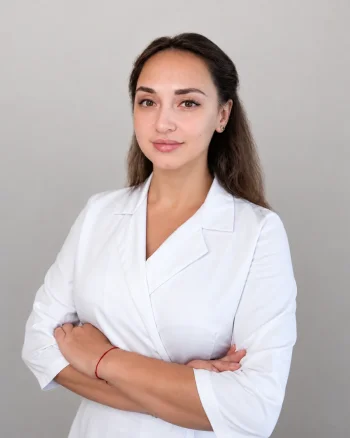
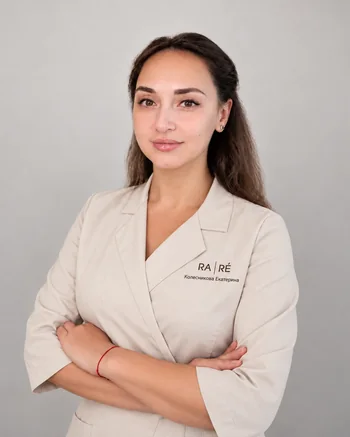
Replace Ekaterina's and Natalya's portraits with the client's new photos

diff --git a/index.html b/index.html
@@ -458,7 +458,7 @@
           <p class="mh-spec-card__role">Косметолог-эстетист, нутрициолог</p>
         </a>
         <a href="specialists/ekaterina-evgenevna.html" class="mh-spec-card">
-          <img src="assets/photos/spec-ekaterina.webp?v=2" alt="Колесникова Екатерина Евгеньевна" loading="lazy" srcset="assets/photos/spec-ekaterina-350.webp?v=2 350w, assets/photos/spec-ekaterina-700.webp?v=2 700w, assets/photos/spec-ekaterina-950.webp?v=2 950w, assets/photos/spec-ekaterina.webp?v=2 1122w" sizes="(max-width: 767px) 350px, (max-width: 1024px) 460px, 468px"/>
+          <img src="assets/photos/spec-ekaterina.webp?v=10" alt="Колесникова Екатерина Евгеньевна" loading="lazy" srcset="assets/photos/spec-ekaterina-350.webp?v=10 350w, assets/photos/spec-ekaterina-700.webp?v=10 700w, assets/photos/spec-ekaterina-950.webp?v=10 950w, assets/photos/spec-ekaterina.webp?v=10 1122w" sizes="(max-width: 767px) 350px, (max-width: 1024px) 460px, 468px"/>
           <p class="mh-spec-card__name">Колесникова Екатерина Евгеньевна</p>
           <p class="mh-spec-card__role">Косметолог-эстетист</p>
         </a>
@@ -468,7 +468,7 @@
           <p class="mh-spec-card__role">Врач-дерматовенеролог, косметолог, трихолог</p>
         </a>
         <a href="specialists/natalya-vladimirovna.html" class="mh-spec-card">
-          <img src="assets/photos/spec-natalya.webp?v=2" alt="Луковская Наталья Владимировна" loading="lazy" srcset="assets/photos/spec-natalya-350.webp?v=2 350w, assets/photos/spec-natalya-500.webp?v=2 500w, assets/photos/spec-natalya-700.webp?v=2 700w, assets/photos/spec-natalya.webp?v=2 1024w" sizes="(max-width: 767px) 350px, (max-width: 1024px) 460px, 468px"/>
+          <img src="assets/photos/spec-natalya.webp?v=10" alt="Луковская Наталья Владимировна" loading="lazy" srcset="assets/photos/spec-natalya-350.webp?v=10 350w, assets/photos/spec-natalya-500.webp?v=10 500w, assets/photos/spec-natalya-700.webp?v=10 700w, assets/photos/spec-natalya.webp?v=10 1122w" sizes="(max-width: 767px) 350px, (max-width: 1024px) 460px, 468px"/>
           <p class="mh-spec-card__name">Луковская Наталья Владимировна</p>
           <p class="mh-spec-card__role">Косметолог-эстетист</p>
         </a>
@@ -1109,7 +1109,7 @@
       <span class="spec-card__view" aria-label="Профиль"><svg viewBox="0 0 24 24" fill="none"><path d="M7 17L17 7M17 7H9M17 7V15" stroke="currentColor" stroke-width="1.8" stroke-linecap="round" stroke-linejoin="round"/></svg></span>
     </a>
     <a href="specialists/ekaterina-evgenevna.html" class="spec-card">
-      <div class="spec-card__photo"><img src="assets/photos/spec-ekaterina.webp?v=2" alt="Колесникова Екатерина Евгеньевна" loading="lazy" srcset="assets/photos/spec-ekaterina-350.webp?v=2 350w, assets/photos/spec-ekaterina-700.webp?v=2 700w, assets/photos/spec-ekaterina-950.webp?v=2 950w, assets/photos/spec-ekaterina.webp?v=2 1122w" sizes="(max-width: 767px) 350px, (max-width: 1024px) 460px, 468px"/></div>
+      <div class="spec-card__photo"><img src="assets/photos/spec-ekaterina.webp?v=10" alt="Колесникова Екатерина Евгеньевна" loading="lazy" srcset="assets/photos/spec-ekaterina-350.webp?v=10 350w, assets/photos/spec-ekaterina-700.webp?v=10 700w, assets/photos/spec-ekaterina-950.webp?v=10 950w, assets/photos/spec-ekaterina.webp?v=10 1122w" sizes="(max-width: 767px) 350px, (max-width: 1024px) 460px, 468px"/></div>
       <p class="spec-card__name">Колесникова Екатерина Евгеньевна</p>
       <p class="spec-card__role">Косметолог-эстетист</p>
       <span class="spec-card__view" aria-label="Профиль"><svg viewBox="0 0 24 24" fill="none"><path d="M7 17L17 7M17 7H9M17 7V15" stroke="currentColor" stroke-width="1.8" stroke-linecap="round" stroke-linejoin="round"/></svg></span>
@@ -1121,7 +1121,7 @@
       <span class="spec-card__view" aria-label="Профиль"><svg viewBox="0 0 24 24" fill="none"><path d="M7 17L17 7M17 7H9M17 7V15" stroke="currentColor" stroke-width="1.8" stroke-linecap="round" stroke-linejoin="round"/></svg></span>
     </a>
     <a href="specialists/natalya-vladimirovna.html" class="spec-card">
-      <div class="spec-card__photo"><img src="assets/photos/spec-natalya.webp?v=2" alt="Луковская Наталья Владимировна" loading="lazy" srcset="assets/photos/spec-natalya-350.webp?v=2 350w, assets/photos/spec-natalya-500.webp?v=2 500w, assets/photos/spec-natalya-700.webp?v=2 700w, assets/photos/spec-natalya.webp?v=2 1024w" sizes="(max-width: 767px) 350px, (max-width: 1024px) 460px, 468px"/></div>
+      <div class="spec-card__photo"><img src="assets/photos/spec-natalya.webp?v=10" alt="Луковская Наталья Владимировна" loading="lazy" srcset="assets/photos/spec-natalya-350.webp?v=10 350w, assets/photos/spec-natalya-500.webp?v=10 500w, assets/photos/spec-natalya-700.webp?v=10 700w, assets/photos/spec-natalya.webp?v=10 1122w" sizes="(max-width: 767px) 350px, (max-width: 1024px) 460px, 468px"/></div>
       <p class="spec-card__name">Луковская Наталья Владимировна</p>
       <p class="spec-card__role">Косметолог-эстетист</p>
       <span class="spec-card__view" aria-label="Профиль"><svg viewBox="0 0 24 24" fill="none"><path d="M7 17L17 7M17 7H9M17 7V15" stroke="currentColor" stroke-width="1.8" stroke-linecap="round" stroke-linejoin="round"/></svg></span>

diff --git a/specialists/index.html b/specialists/index.html
@@ -300,7 +300,7 @@
       <p class="spec-card__role">Косметолог-эстетист, нутрициолог</p>
     </a>
     <a href="ekaterina-evgenevna.html" class="spec-card" data-rr="up" style="--rr-del:0.15s">
-      <img src="../assets/photos/spec-ekaterina.webp?v=2" alt="Колесникова Екатерина Евгеньевна" loading="lazy" srcset="../assets/photos/spec-ekaterina-350.webp?v=2 350w, ../assets/photos/spec-ekaterina-700.webp?v=2 700w, ../assets/photos/spec-ekaterina-950.webp?v=2 950w, ../assets/photos/spec-ekaterina.webp?v=2 1122w" sizes="(max-width: 767px) 350px, (max-width: 1024px) 460px, 468px"/>
+      <img src="../assets/photos/spec-ekaterina.webp?v=10" alt="Колесникова Екатерина Евгеньевна" loading="lazy" srcset="../assets/photos/spec-ekaterina-350.webp?v=10 350w, ../assets/photos/spec-ekaterina-700.webp?v=10 700w, ../assets/photos/spec-ekaterina-950.webp?v=10 950w, ../assets/photos/spec-ekaterina.webp?v=10 1122w" sizes="(max-width: 767px) 350px, (max-width: 1024px) 460px, 468px"/>
       <p class="spec-card__name">Колесникова Екатерина Евгеньевна</p>
       <p class="spec-card__role">Косметолог-эстетист</p>
     </a>
@@ -310,7 +310,7 @@
       <p class="spec-card__role">Врач-дерматовенеролог, косметолог, трихолог</p>
     </a>
     <a href="natalya-vladimirovna.html" class="spec-card" data-rr="up" style="--rr-del:0.3s">
-      <img src="../assets/photos/spec-natalya.webp?v=2" alt="Луковская Наталья Владимировна" loading="lazy" srcset="../assets/photos/spec-natalya-350.webp?v=2 350w, ../assets/photos/spec-natalya-500.webp?v=2 500w, ../assets/photos/spec-natalya-700.webp?v=2 700w, ../assets/photos/spec-natalya.webp?v=2 1024w" sizes="(max-width: 767px) 350px, (max-width: 1024px) 460px, 468px"/>
+      <img src="../assets/photos/spec-natalya.webp?v=10" alt="Луковская Наталья Владимировна" loading="lazy" srcset="../assets/photos/spec-natalya-350.webp?v=10 350w, ../assets/photos/spec-natalya-500.webp?v=10 500w, ../assets/photos/spec-natalya-700.webp?v=10 700w, ../assets/photos/spec-natalya.webp?v=10 1122w" sizes="(max-width: 767px) 350px, (max-width: 1024px) 460px, 468px"/>
       <p class="spec-card__name">Луковская Наталья Владимировна</p>
       <p class="spec-card__role">Косметолог-эстетист</p>
     </a>
@@ -365,7 +365,7 @@
     <p class="mh-spec-card__role">Косметолог-эстетист, нутрициолог</p>
   </a>
   <a href="ekaterina-evgenevna.html" class="mh-spec-card" data-rr="up" style="--rr-del:0.24s">
-    <img src="../assets/photos/spec-ekaterina.webp?v=2" alt="Колесникова Екатерина Евгеньевна" loading="lazy" srcset="../assets/photos/spec-ekaterina-350.webp?v=2 350w, ../assets/photos/spec-ekaterina-700.webp?v=2 700w, ../assets/photos/spec-ekaterina-950.webp?v=2 950w, ../assets/photos/spec-ekaterina.webp?v=2 1122w" sizes="(max-width: 767px) 350px, (max-width: 1024px) 460px, 468px"/>
+    <img src="../assets/photos/spec-ekaterina.webp?v=10" alt="Колесникова Екатерина Евгеньевна" loading="lazy" srcset="../assets/photos/spec-ekaterina-350.webp?v=10 350w, ../assets/photos/spec-ekaterina-700.webp?v=10 700w, ../assets/photos/spec-ekaterina-950.webp?v=10 950w, ../assets/photos/spec-ekaterina.webp?v=10 1122w" sizes="(max-width: 767px) 350px, (max-width: 1024px) 460px, 468px"/>
     <p class="mh-spec-card__name">Колесникова Екатерина Евгеньевна</p>
     <p class="mh-spec-card__role">Косметолог-эстетист</p>
   </a>
@@ -375,7 +375,7 @@
     <p class="mh-spec-card__role">Врач-дерматовенеролог, косметолог, трихолог</p>
   </a>
   <a href="natalya-vladimirovna.html" class="mh-spec-card" data-rr="up" style="--rr-del:0.3s">
-    <img src="../assets/photos/spec-natalya.webp?v=2" alt="Луковская Наталья Владимировна" loading="lazy" srcset="../assets/photos/spec-natalya-350.webp?v=2 350w, ../assets/photos/spec-natalya-500.webp?v=2 500w, ../assets/photos/spec-natalya-700.webp?v=2 700w, ../assets/photos/spec-natalya.webp?v=2 1024w" sizes="(max-width: 767px) 350px, (max-width: 1024px) 460px, 468px"/>
+    <img src="../assets/photos/spec-natalya.webp?v=10" alt="Луковская Наталья Владимировна" loading="lazy" srcset="../assets/photos/spec-natalya-350.webp?v=10 350w, ../assets/photos/spec-natalya-500.webp?v=10 500w, ../assets/photos/spec-natalya-700.webp?v=10 700w, ../assets/photos/spec-natalya.webp?v=10 1122w" sizes="(max-width: 767px) 350px, (max-width: 1024px) 460px, 468px"/>
     <p class="mh-spec-card__name">Луковская Наталья Владимировна</p>
     <p class="mh-spec-card__role">Косметолог-эстетист</p>
   </a>

diff --git a/specialists/ksenia-aleksandrovna.html b/specialists/ksenia-aleksandrovna.html
@@ -430,7 +430,7 @@
     <div class="spec-sec-head"><h2 data-rr="up">Другие специалисты</h2></div>
     <div class="spec-others__grid" id="spec-others-cards">
       <a href="ekaterina-evgenevna.html" class="spec-other-card" data-rr="up">
-        <img src="../assets/photos/spec-ekaterina.webp?v=2" alt="Колесникова Екатерина Евгеньевна" loading="lazy" srcset="../assets/photos/spec-ekaterina-350.webp?v=2 350w, ../assets/photos/spec-ekaterina-700.webp?v=2 700w, ../assets/photos/spec-ekaterina-950.webp?v=2 950w, ../assets/photos/spec-ekaterina.webp?v=2 1122w" sizes="(max-width: 767px) 350px, (max-width: 1024px) 460px, 468px"/>
+        <img src="../assets/photos/spec-ekaterina.webp?v=10" alt="Колесникова Екатерина Евгеньевна" loading="lazy" srcset="../assets/photos/spec-ekaterina-350.webp?v=10 350w, ../assets/photos/spec-ekaterina-700.webp?v=10 700w, ../assets/photos/spec-ekaterina-950.webp?v=10 950w, ../assets/photos/spec-ekaterina.webp?v=10 1122w" sizes="(max-width: 767px) 350px, (max-width: 1024px) 460px, 468px"/>
         <p class="spec-other-card__name">Колесникова Екатерина Евгеньевна</p>
         <p class="spec-other-card__role">Косметолог-эстетист</p>
       </a>
@@ -445,7 +445,7 @@
         <p class="spec-other-card__role">Косметолог-эстетист</p>
       </a>
       <a href="natalya-vladimirovna.html" class="spec-other-card" data-rr="up" style="--rr-del:0.15s">
-        <img src="../assets/photos/spec-natalya.webp?v=9" alt="Луковская Наталья Владимировна" loading="lazy" srcset="../assets/photos/spec-natalya-350.webp?v=9 350w, ../assets/photos/spec-natalya-500.webp?v=9 500w, ../assets/photos/spec-natalya-700.webp?v=9 700w, ../assets/photos/spec-natalya.webp?v=9 1024w" sizes="(max-width: 767px) 350px, (max-width: 1024px) 460px, 468px"/>
+        <img src="../assets/photos/spec-natalya.webp?v=10" alt="Луковская Наталья Владимировна" loading="lazy" srcset="../assets/photos/spec-natalya-350.webp?v=10 350w, ../assets/photos/spec-natalya-500.webp?v=10 500w, ../assets/photos/spec-natalya-700.webp?v=10 700w, ../assets/photos/spec-natalya.webp?v=10 1122w" sizes="(max-width: 767px) 350px, (max-width: 1024px) 460px, 468px"/>
         <p class="spec-other-card__name">Луковская Наталья Владимировна</p>
         <p class="spec-other-card__role">Косметолог-эстетист</p>
       </a>

diff --git a/specialists/natalya-vladimirovna.html b/specialists/natalya-vladimirovna.html
@@ -203,7 +203,7 @@
       </a>
     </div>
     <div class="spec-hero__photo" data-rr="img">
-      <img src="../assets/photos/spec-natalya.webp?v=2" alt="Луковская Наталья Владимировна" loading="eager" srcset="../assets/photos/spec-natalya-350.webp?v=2 350w, ../assets/photos/spec-natalya-500.webp?v=2 500w, ../assets/photos/spec-natalya-700.webp?v=2 700w, ../assets/photos/spec-natalya.webp?v=2 1024w" sizes="(max-width: 767px) 350px, (max-width: 1024px) 460px, 468px"/>
+      <img src="../assets/photos/spec-natalya.webp?v=10" alt="Луковская Наталья Владимировна" loading="eager" srcset="../assets/photos/spec-natalya-350.webp?v=10 350w, ../assets/photos/spec-natalya-500.webp?v=10 500w, ../assets/photos/spec-natalya-700.webp?v=10 700w, ../assets/photos/spec-natalya.webp?v=10 1122w" sizes="(max-width: 767px) 350px, (max-width: 1024px) 460px, 468px"/>
     </div>
   </section>
 
@@ -392,7 +392,7 @@
         <p class="spec-other-card__role">Косметолог-эстетист, нутрициолог</p>
       </a>
       <a href="ekaterina-evgenevna.html" class="spec-other-card" data-rr="up" style="--rr-del:0.15s">
-        <img src="../assets/photos/spec-ekaterina.webp?v=2" alt="Колесникова Екатерина Евгеньевна" loading="lazy" srcset="../assets/photos/spec-ekaterina-350.webp?v=2 350w, ../assets/photos/spec-ekaterina-700.webp?v=2 700w, ../assets/photos/spec-ekaterina-950.webp?v=2 950w, ../assets/photos/spec-ekaterina.webp?v=2 1122w" sizes="(max-width: 767px) 350px, (max-width: 1024px) 460px, 468px"/>
+        <img src="../assets/photos/spec-ekaterina.webp?v=10" alt="Колесникова Екатерина Евгеньевна" loading="lazy" srcset="../assets/photos/spec-ekaterina-350.webp?v=10 350w, ../assets/photos/spec-ekaterina-700.webp?v=10 700w, ../assets/photos/spec-ekaterina-950.webp?v=10 950w, ../assets/photos/spec-ekaterina.webp?v=10 1122w" sizes="(max-width: 767px) 350px, (max-width: 1024px) 460px, 468px"/>
         <p class="spec-other-card__name">Колесникова Екатерина Евгеньевна</p>
         <p class="spec-other-card__role">Косметолог-эстетист</p>
       </a>

diff --git a/specialists/ekaterina-evgenevna.html b/specialists/ekaterina-evgenevna.html
@@ -211,7 +211,7 @@
       </a>
     </div>
     <div class="spec-hero__photo" data-rr="img">
-      <img src="../assets/photos/spec-ekaterina.webp?v=2" alt="Колесникова Екатерина Евгеньевна" loading="eager" srcset="../assets/photos/spec-ekaterina-350.webp?v=2 350w, ../assets/photos/spec-ekaterina-700.webp?v=2 700w, ../assets/photos/spec-ekaterina-950.webp?v=2 950w, ../assets/photos/spec-ekaterina.webp?v=2 1122w" sizes="(max-width: 767px) 350px, (max-width: 1024px) 460px, 468px"/>
+      <img src="../assets/photos/spec-ekaterina.webp?v=10" alt="Колесникова Екатерина Евгеньевна" loading="eager" srcset="../assets/photos/spec-ekaterina-350.webp?v=10 350w, ../assets/photos/spec-ekaterina-700.webp?v=10 700w, ../assets/photos/spec-ekaterina-950.webp?v=10 950w, ../assets/photos/spec-ekaterina.webp?v=10 1122w" sizes="(max-width: 767px) 350px, (max-width: 1024px) 460px, 468px"/>
     </div>
   </section>
 
@@ -393,7 +393,7 @@
         <p class="spec-other-card__role">Косметолог-эстетист</p>
       </a>
       <a href="natalya-vladimirovna.html" class="spec-other-card" data-rr="up" style="--rr-del:0.10s">
-        <img src="../assets/photos/spec-natalya.webp?v=9" alt="Луковская Наталья Владимировна" loading="lazy" srcset="../assets/photos/spec-natalya-350.webp?v=9 350w, ../assets/photos/spec-natalya-500.webp?v=9 500w, ../assets/photos/spec-natalya-700.webp?v=9 700w, ../assets/photos/spec-natalya.webp?v=9 1024w" sizes="(max-width: 767px) 350px, (max-width: 1024px) 460px, 468px"/>
+        <img src="../assets/photos/spec-natalya.webp?v=10" alt="Луковская Наталья Владимировна" loading="lazy" srcset="../assets/photos/spec-natalya-350.webp?v=10 350w, ../assets/photos/spec-natalya-500.webp?v=10 500w, ../assets/photos/spec-natalya-700.webp?v=10 700w, ../assets/photos/spec-natalya.webp?v=10 1122w" sizes="(max-width: 767px) 350px, (max-width: 1024px) 460px, 468px"/>
         <p class="spec-other-card__name">Луковская Наталья Владимировна</p>
         <p class="spec-other-card__role">Косметолог-эстетист</p>
       </a>

diff --git a/specialists/alisa-alekseevna.html b/specialists/alisa-alekseevna.html
@@ -433,7 +433,7 @@
         <p class="spec-other-card__role">Косметолог-эстетист, нутрициолог</p>
       </a>
       <a href="ekaterina-evgenevna.html" class="spec-other-card" data-rr="up" style="--rr-del:0.05s">
-        <img src="../assets/photos/spec-ekaterina.webp?v=2" alt="Колесникова Екатерина Евгеньевна" loading="lazy" srcset="../assets/photos/spec-ekaterina-350.webp?v=2 350w, ../assets/photos/spec-ekaterina-700.webp?v=2 700w, ../assets/photos/spec-ekaterina-950.webp?v=2 950w, ../assets/photos/spec-ekaterina.webp?v=2 1122w" sizes="(max-width: 767px) 350px, (max-width: 1024px) 460px, 468px"/>
+        <img src="../assets/photos/spec-ekaterina.webp?v=10" alt="Колесникова Екатерина Евгеньевна" loading="lazy" srcset="../assets/photos/spec-ekaterina-350.webp?v=10 350w, ../assets/photos/spec-ekaterina-700.webp?v=10 700w, ../assets/photos/spec-ekaterina-950.webp?v=10 950w, ../assets/photos/spec-ekaterina.webp?v=10 1122w" sizes="(max-width: 767px) 350px, (max-width: 1024px) 460px, 468px"/>
         <p class="spec-other-card__name">Колесникова Екатерина Евгеньевна</p>
         <p class="spec-other-card__role">Косметолог-эстетист</p>
       </a>

diff --git a/specialists/mariya-viktorovna.html b/specialists/mariya-viktorovna.html
@@ -438,7 +438,7 @@
         <p class="spec-other-card__role">Косметолог-эстетист, нутрициолог</p>
       </a>
       <a href="ekaterina-evgenevna.html" class="spec-other-card" data-rr="up" style="--rr-del:0.10s">
-        <img src="../assets/photos/spec-ekaterina.webp?v=2" alt="Колесникова Екатерина Евгеньевна" loading="lazy" srcset="../assets/photos/spec-ekaterina-350.webp?v=2 350w, ../assets/photos/spec-ekaterina-700.webp?v=2 700w, ../assets/photos/spec-ekaterina-950.webp?v=2 950w, ../assets/photos/spec-ekaterina.webp?v=2 1122w" sizes="(max-width: 767px) 350px, (max-width: 1024px) 460px, 468px"/>
+        <img src="../assets/photos/spec-ekaterina.webp?v=10" alt="Колесникова Екатерина Евгеньевна" loading="lazy" srcset="../assets/photos/spec-ekaterina-350.webp?v=10 350w, ../assets/photos/spec-ekaterina-700.webp?v=10 700w, ../assets/photos/spec-ekaterina-950.webp?v=10 950w, ../assets/photos/spec-ekaterina.webp?v=10 1122w" sizes="(max-width: 767px) 350px, (max-width: 1024px) 460px, 468px"/>
         <p class="spec-other-card__name">Колесникова Екатерина Евгеньевна</p>
         <p class="spec-other-card__role">Косметолог-эстетист</p>
       </a>

diff --git a/specialists/elena-tigranovna.html b/specialists/elena-tigranovna.html
@@ -426,7 +426,7 @@
     <div class="spec-sec-head"><h2 data-rr="up">Другие специалисты</h2></div>
     <div class="spec-others__grid" id="spec-others-cards">
       <a href="natalya-vladimirovna.html" class="spec-other-card" data-rr="up">
-        <img src="../assets/photos/spec-natalya.webp?v=9" alt="Луковская Наталья Владимировна" loading="lazy" srcset="../assets/photos/spec-natalya-350.webp?v=9 350w, ../assets/photos/spec-natalya-500.webp?v=9 500w, ../assets/photos/spec-natalya-700.webp?v=9 700w, ../assets/photos/spec-natalya.webp?v=9 1024w" sizes="(max-width: 767px) 350px, (max-width: 1024px) 460px, 468px"/>
+        <img src="../assets/photos/spec-natalya.webp?v=10" alt="Луковская Наталья Владимировна" loading="lazy" srcset="../assets/photos/spec-natalya-350.webp?v=10 350w, ../assets/photos/spec-natalya-500.webp?v=10 500w, ../assets/photos/spec-natalya-700.webp?v=10 700w, ../assets/photos/spec-natalya.webp?v=10 1122w" sizes="(max-width: 767px) 350px, (max-width: 1024px) 460px, 468px"/>
         <p class="spec-other-card__name">Луковская Наталья Владимировна</p>
         <p class="spec-other-card__role">Косметолог-эстетист</p>
       </a>

diff --git a/specialists/yana-vladimirovna.html b/specialists/yana-vladimirovna.html
@@ -432,7 +432,7 @@
         <p class="spec-other-card__role">Косметолог-эстетист</p>
       </a>
       <a href="natalya-vladimirovna.html" class="spec-other-card" data-rr="up" style="--rr-del:0.05s">
-        <img src="../assets/photos/spec-natalya.webp?v=9" alt="Луковская Наталья Владимировна" loading="lazy" srcset="../assets/photos/spec-natalya-350.webp?v=9 350w, ../assets/photos/spec-natalya-500.webp?v=9 500w, ../assets/photos/spec-natalya-700.webp?v=9 700w, ../assets/photos/spec-natalya.webp?v=9 1024w" sizes="(max-width: 767px) 350px, (max-width: 1024px) 460px, 468px"/>
+        <img src="../assets/photos/spec-natalya.webp?v=10" alt="Луковская Наталья Владимировна" loading="lazy" srcset="../assets/photos/spec-natalya-350.webp?v=10 350w, ../assets/photos/spec-natalya-500.webp?v=10 500w, ../assets/photos/spec-natalya-700.webp?v=10 700w, ../assets/photos/spec-natalya.webp?v=10 1122w" sizes="(max-width: 767px) 350px, (max-width: 1024px) 460px, 468px"/>
         <p class="spec-other-card__name">Луковская Наталья Владимировна</p>
         <p class="spec-other-card__role">Косметолог-эстетист</p>
       </a>
